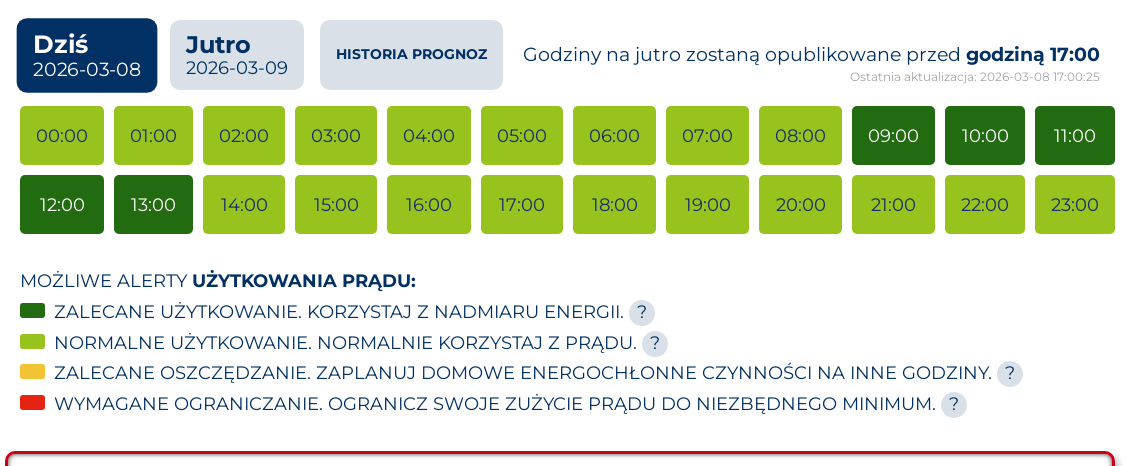
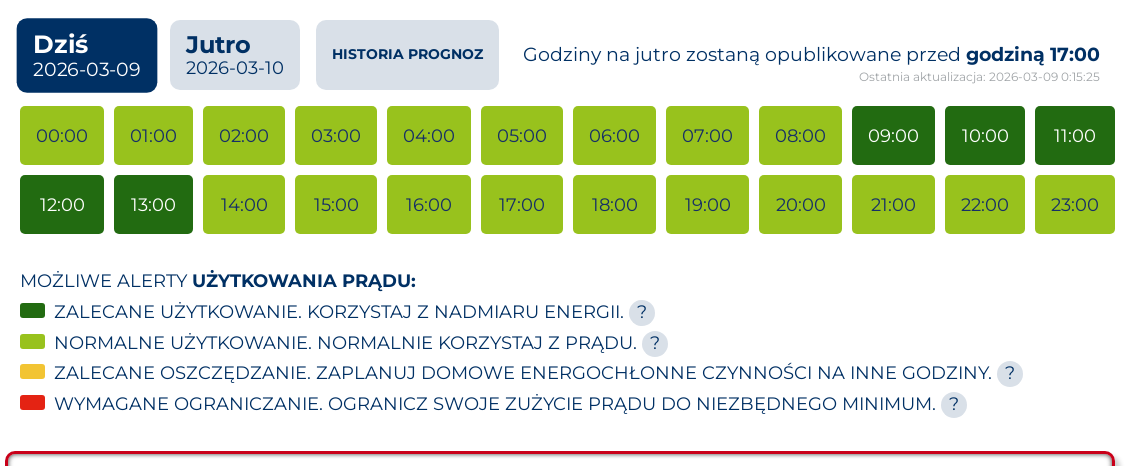
site: update 2026-03-08 23:15 UTC

Changed region(s): [[0.2159, 0.0601, 0.4626, 0.1803], [0.7401, 0.1502, 0.9559, 0.1803], [0.0925, 0.1202, 0.1233, 0.1502]]

diff --git a/site/html_03_g13_g14_porownanie.html b/site/html_03_g13_g14_porownanie.html
@@ -18,7 +18,7 @@
   </div>
 
   <section class="hero">
-    <div class="kicker">Ceny sprzedaży i zakupu energii oraz tryb SolaX (ostatni odczyt: 2026-03-09 00:00:10, strona wygenerowana 2026-03-09 00:00:33)</div>
+    <div class="kicker">Ceny sprzedaży i zakupu energii oraz tryb SolaX (ostatni odczyt: 2026-03-09 00:15:10, strona wygenerowana 2026-03-09 00:15:41)</div>
     <h1>Ceny energii i tryb SolaX</h1>
     <p>
       Taryfy Tauron:
@@ -44,7 +44,7 @@
       <tbody>
         <tr>
           <td>Cena sprzedaży energii (SELL)</td>
-          <td>0,588</td>
+          <td>0,408</td>
         </tr>
         <tr>
           <td>Cena zakupu energii w taryfie G13</td>
@@ -52,7 +52,7 @@
         </tr>
         <tr>
           <td>Cena zakupu energii w taryfie G14</td>
-          <td>0,833</td>
+          <td>0,612</td>
         </tr>
       </tbody>
     </table>

diff --git a/site/html_02_raport_ze_stanu_teraz.html b/site/html_02_raport_ze_stanu_teraz.html
@@ -18,7 +18,7 @@
   </div>
 
   <section class="hero">
-    <div class="kicker">Ostatni odczyt: 09.03.2026 00:00</div>
+    <div class="kicker">Ostatni odczyt: 09.03.2026 00:15</div>
     <h1>Raport ze stanu teraz</h1>
     <p>
       Taryfy Tauron:
@@ -42,7 +42,7 @@
       <tbody>
         <tr>
           <th style="width:40%;">Czas odczytu</th>
-          <td>09.03.2026 00:00</td>
+          <td>09.03.2026 00:15</td>
         </tr>
         <tr>
           <th>Położenie</th>
